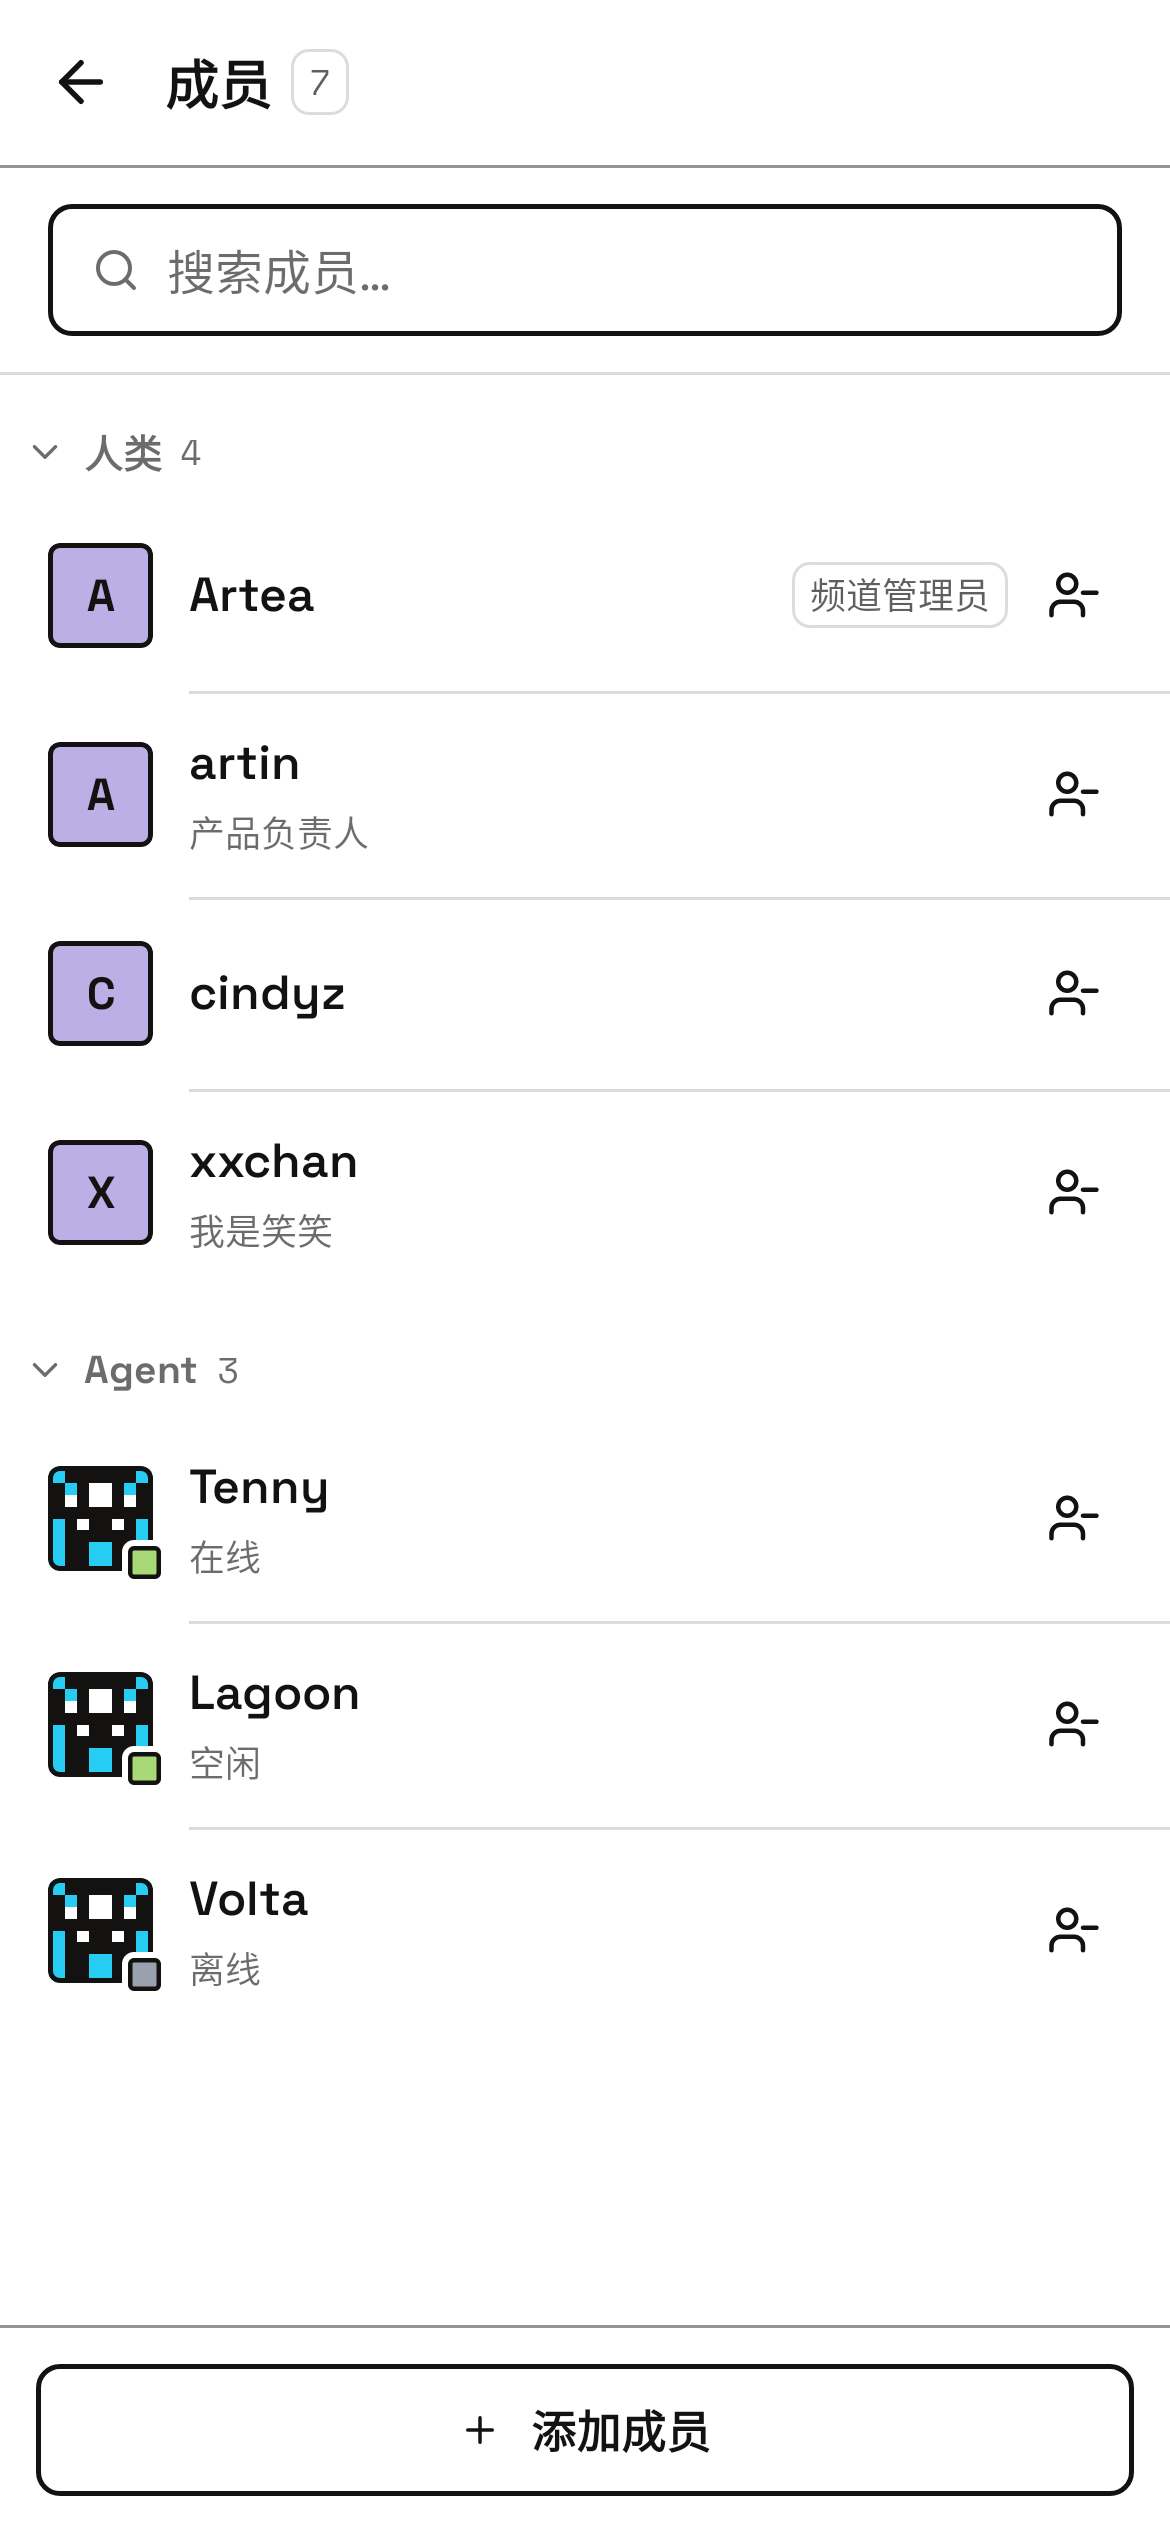
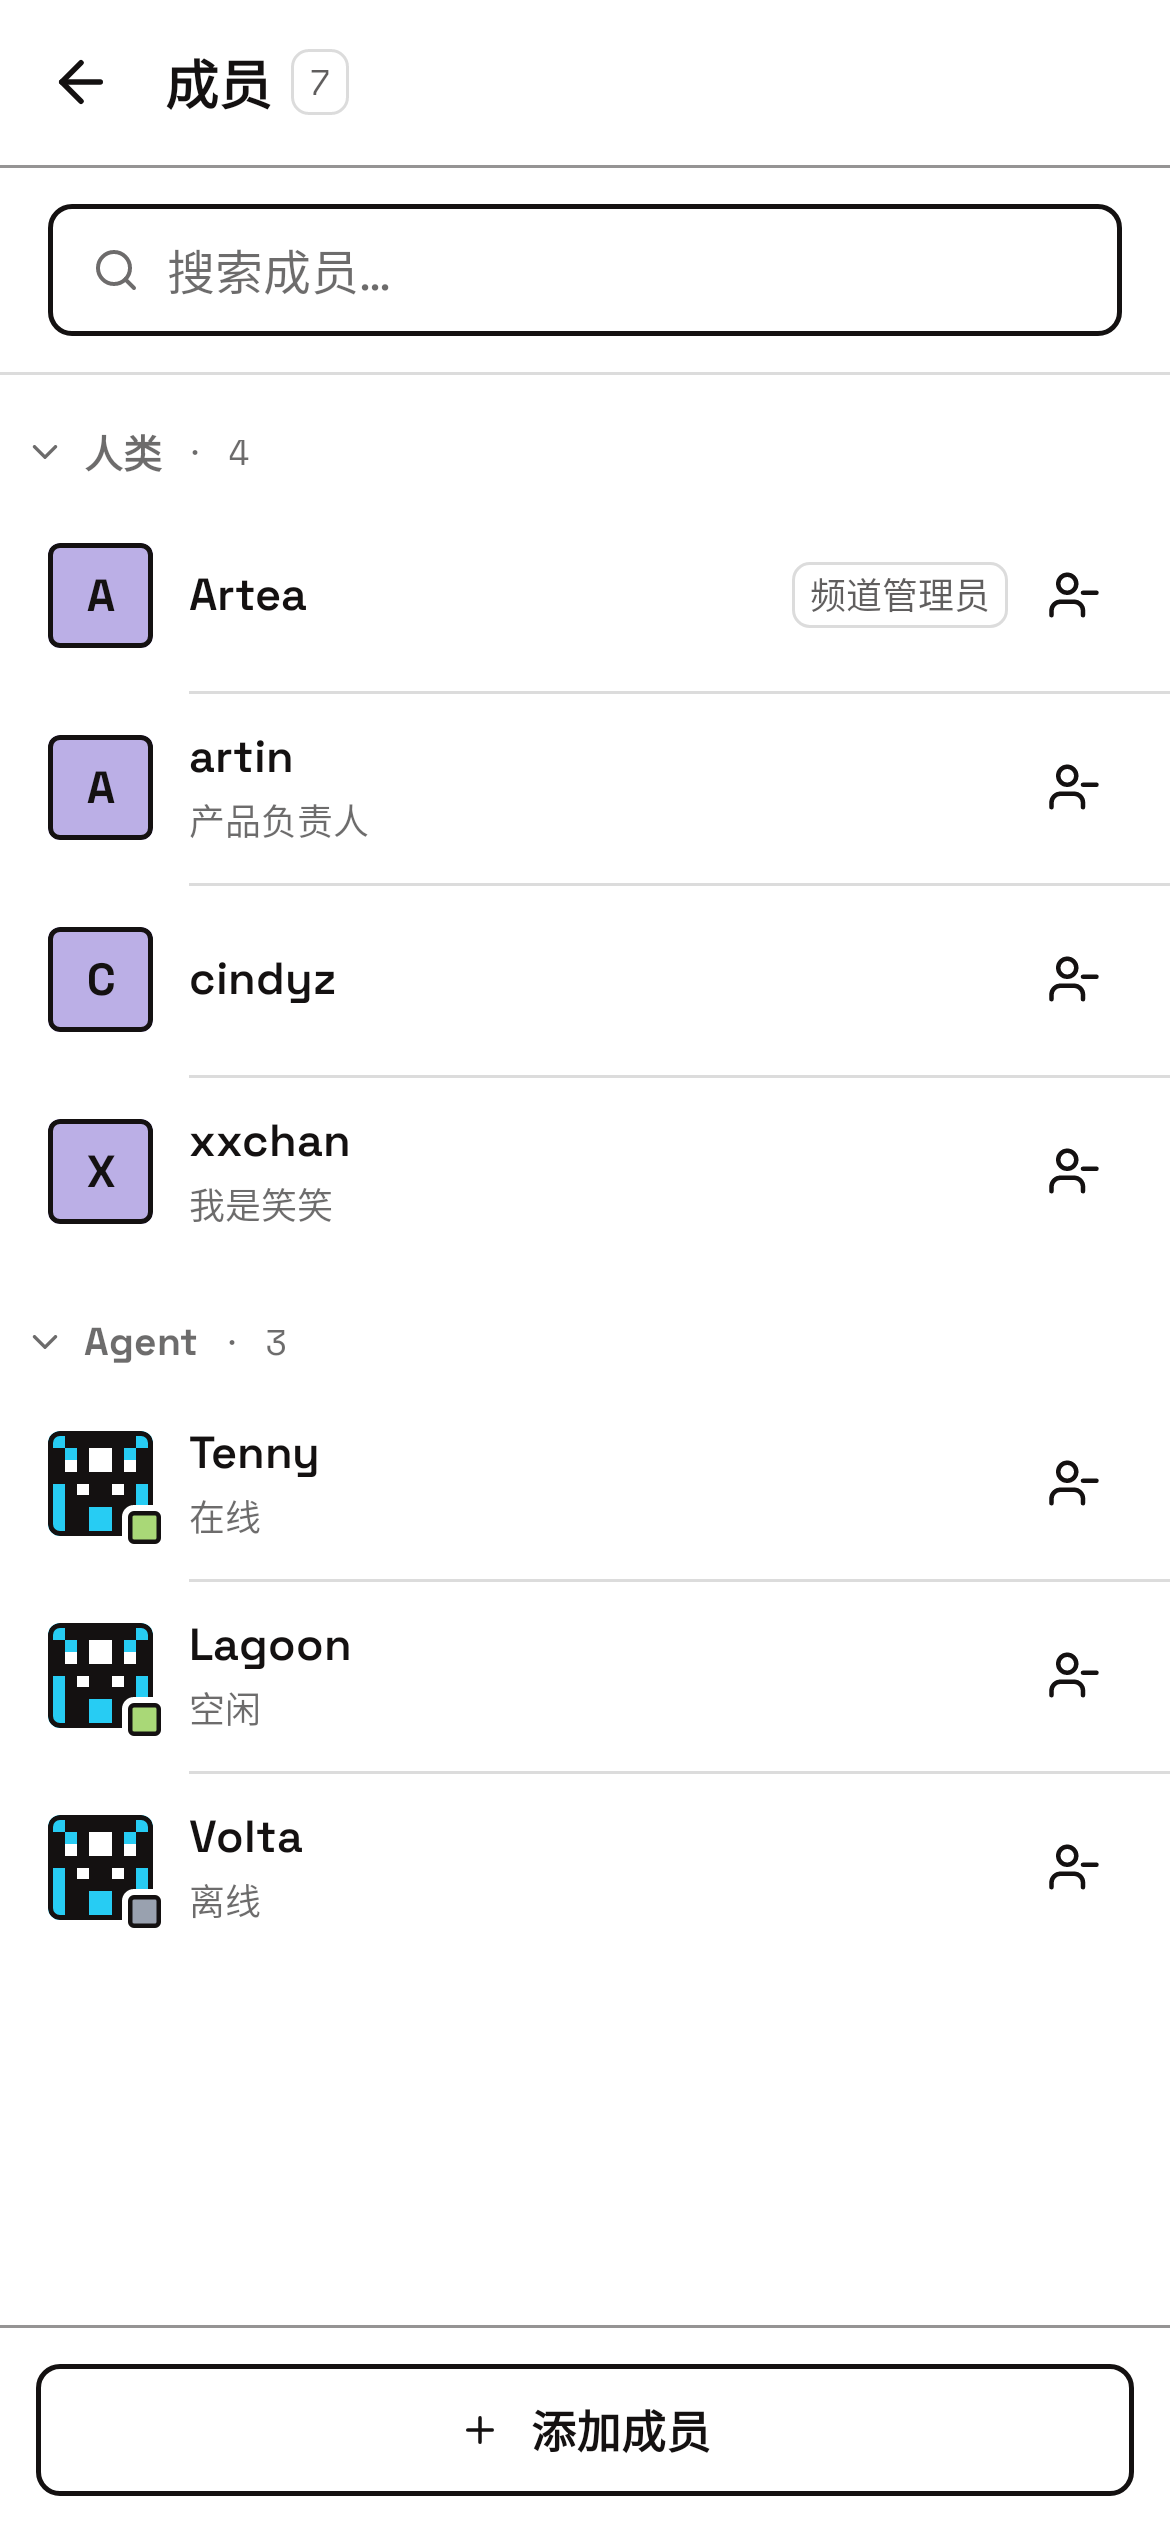
test(members): re-record members goldens; add member_list_row light golden
Split the designsystem member row case into light and dark tests so each records on its own.

diff --git a/compose/designsystem/src/desktopTest/kotlin/build/raft/designsystem/screenshot/DisplayComponentScreenshotTest.kt b/compose/designsystem/src/desktopTest/kotlin/build/raft/designsystem/screenshot/DisplayComponentScreenshotTest.kt
@@ -672,8 +672,12 @@ class DisplayComponentScreenshotTest {
      * sans 12/16 sub-line), a role tag and a ghost remove button.
      */
     @Test
-    fun memberListRow() =
-        appearances.forEach { appearance ->
+    fun memberListRowLight() = memberListRow(RaftAppearance.Light)
+
+    @Test
+    fun memberListRowDark() = memberListRow(RaftAppearance.Dark)
+
+    private fun memberListRow(appearance: RaftAppearance) =
             RaftScreenshot.capture("member_list_row_${appearance.name.lowercase()}", appearance) {
                 Column(Modifier.width(342.dp)) {
                     RaftSidebarSectionHeader("Humans", expanded = true, onExpandedChange = {}, count = 2, countSeparator = " · ")
@@ -695,7 +699,6 @@ class DisplayComponentScreenshotTest {
                     )
                 }
             }
-        }
 
     @Test
     fun listRow() =
